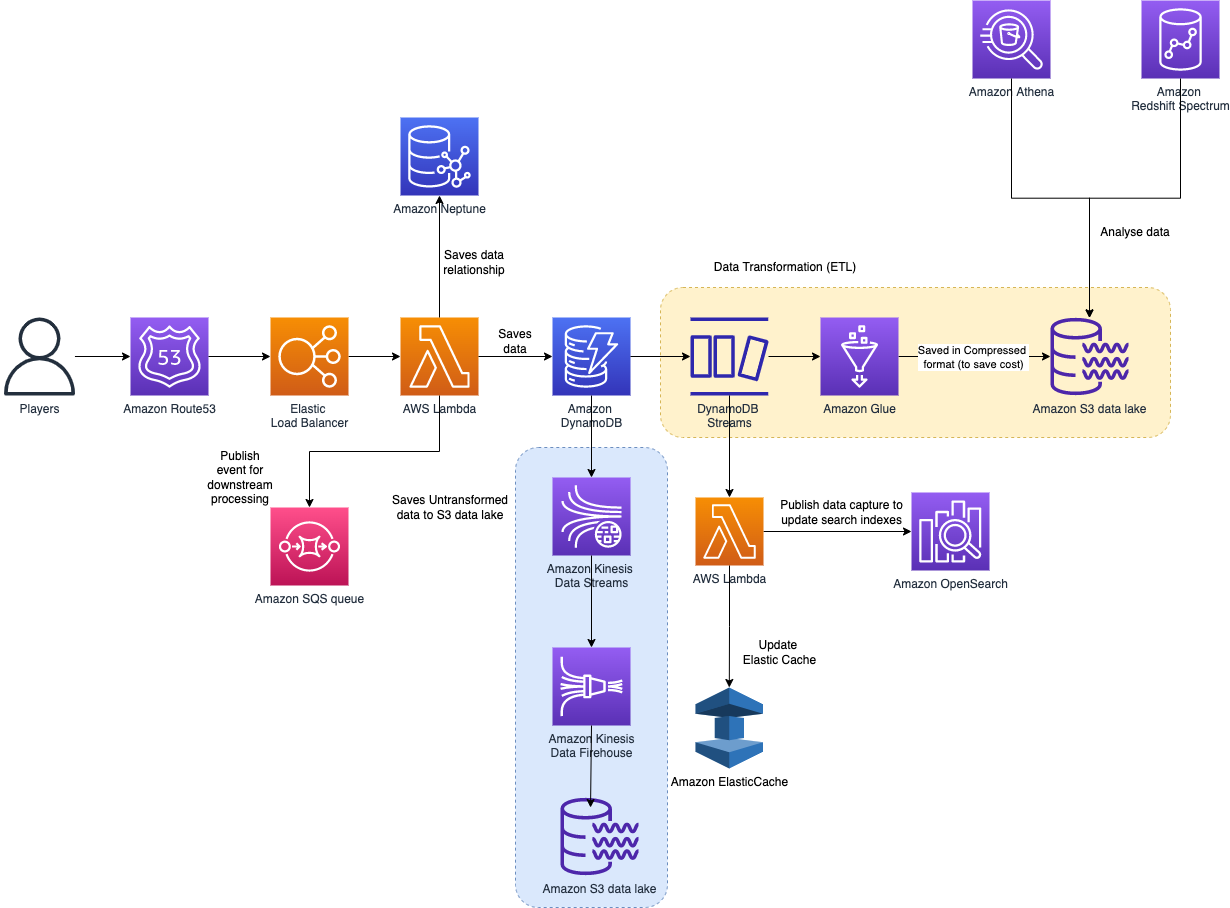
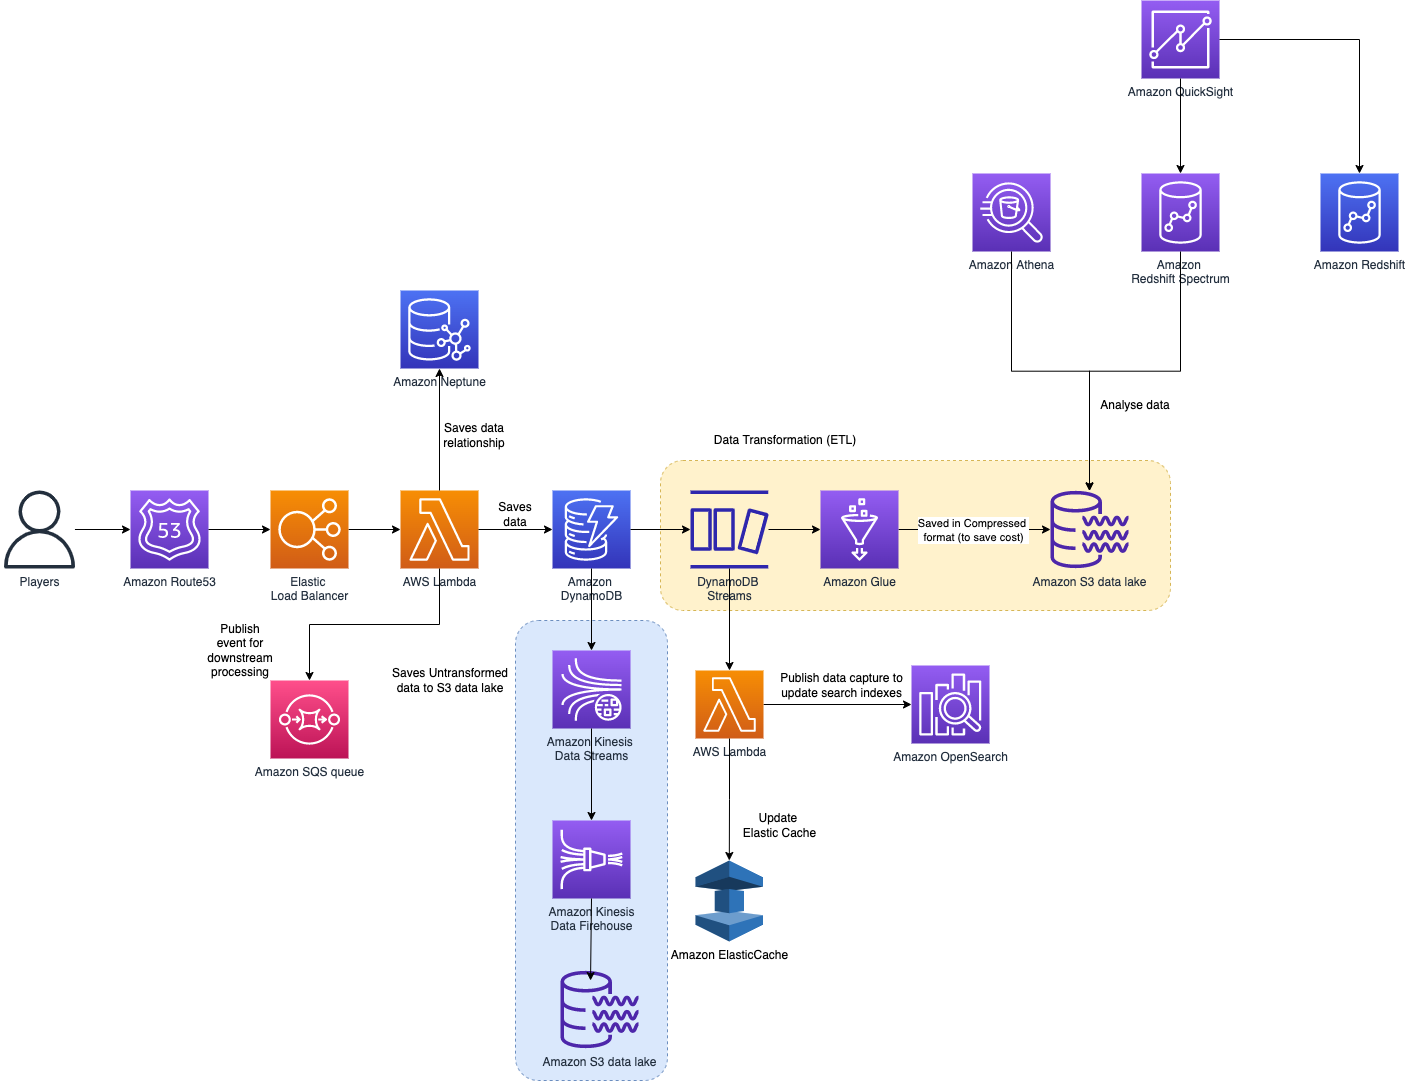
Commit

diff --git a/src/2_AWSComponents/11_AWSCostOptimization/TrustedAdvisor.md b/src/2_AWSComponents/11_AWSCostOptimization/TrustedAdvisor.md
@@ -1,0 +1,24 @@
+# Trusted Advisor
+- [AWS Trusted Advisor](https://aws.amazon.com/premiumsupport/technology/trusted-advisor/) is an online tool that draws upon best practices learned from AWS’s aggregated operational history of serving hundreds of thousands of AWS customers.
+- [Trusted Advisor](https://aws.amazon.com/premiumsupport/technology/trusted-advisor/) inspects your AWS environment and makes recommendations for saving money, improving system performance, or closing security gaps. 
+- It scans your AWS infrastructure and compares it to AWS Best practices in five categories (Cost Optimization, Performance, Security, Fault Tolerance, Service limits) and then provides recommendations.
+
[1 lines of base64/hex data omitted]
+
+# Trusted Advisor Plans
+
+| Price   | Plans                                           | Remarks                                                                                                                                                                   |
+|---------|-------------------------------------------------|---------------------------------------------------------------------------------------------------------------------------------------------------------------------------|
+| Free    | AWS Basic Support and AWS Developer Support     | AWS Basic Support and AWS Developer Support customers can access core security checks and checks for service quotas.                                                      |
+| Premium | AWS Business Support and AWS Enterprise Support | AWS Business Support and AWS Enterprise Support customers can access all checks, including cost optimization, security, fault tolerance, performance, and service quotas. |
+ 
+
+# Features
+
+| Features          |
+|-------------------|
+| Cost Optimization |
+| Performance       |
+| Security          |
+| Fault Tolerance   |
+| Service Limits    |

diff --git a/src/2_AWSComponents/2c_SecurityServices/2_InfraProtectionServices/VPC/SecurityGroupVsNetworkACL.md b/src/2_AWSComponents/2c_SecurityServices/2_InfraProtectionServices/VPC/SecurityGroupVsNetworkACL.md
@@ -1,14 +1,14 @@
 # Security Group vs Network ACL
 
-| Feature          | [Security Group](SecurityGroup.md)                                                                                                                                        | [Network ACL](NetworkACL.md)                                                                                                                                                                                                                                 |
-|------------------|---------------------------------------------------------------------------------------------------------------------------------------------------------------------------|--------------------------------------------------------------------------------------------------------------------------------------------------------------------------------------------------------------------------------------------------------------|
-| Stateliness      | [Stateful](https://en.wiktionary.org/wiki/stateful)<br/>- If an inbound traffic is allowed in, the outbound response to that traffic is allowed out automatically.        | [Stateless](https://en.wiktionary.org/wiki/stateless#English)<br/>- Means that [responses to allowed inbound traffic are subject to the rules for outbound traffic (and vice versa)](https://repost.aws/knowledge-center/resolve-connection-sg-acl-inbound). |
-| Resources        | Operates at Instance Level ([EC2](../../../3_ComputeServices/AmazonEC2/Readme.md), [RDS instances](../../../6_DatabaseServices/AmazonRDS/Readme.md) etc.)                 | Operates at [Subnet level](../../../1_NetworkingAndContentDelivery/3_NetworkFoundationsVPC/Subnets.md)                                                                                                                                                       |
-| Default behavior | By default, [all inbound traffic is denied](https://docs.aws.amazon.com/AWSEC2/latest/UserGuide/default-custom-security-groups.html) and all outbound traffic is allowed. | By default, Network ACLs allow all inbound and outbound traffic.                                                                                                                                                                                             |
-| Rule Types       | ALLOW only (& Implicit Deny)                                                                                                                                              | Both ALLOW and DENY                                                                                                                                                                                                                                          |
-| Traffic Types    | Both Inbound & Outbound.                                                                                                                                                  | Both Inbound & Outbound.                                                                                                                                                                                                                                     |
-| Pricing          | Free                                                                                                                                                                      | Free                                                                                                                                                                                                                                                         |
-| Use Case         | Allow or deny traffic that a NACL allows in.                                                                                                                              | Allow or Deny traffic before it reaches a Security Group.                                                                                                                                                                                                    |
+| Feature          | [Security Group](SecurityGroup.md)                                                                                                                                                                                                                                                                                                 | [Network ACL](NetworkACL.md)                                                                                                                                                                                                                                 |
+|------------------|------------------------------------------------------------------------------------------------------------------------------------------------------------------------------------------------------------------------------------------------------------------------------------------------------------------------------------|--------------------------------------------------------------------------------------------------------------------------------------------------------------------------------------------------------------------------------------------------------------|
+| Stateliness      | [Stateful](https://en.wiktionary.org/wiki/stateful)<br/>- If an inbound traffic is allowed in, the outbound response to that traffic is allowed out automatically.                                                                                                                                                                 | [Stateless](https://en.wiktionary.org/wiki/stateless#English)<br/>- Means that [responses to allowed inbound traffic are subject to the rules for outbound traffic (and vice versa)](https://repost.aws/knowledge-center/resolve-connection-sg-acl-inbound). |
+| Resources        | Operates at Instance Level ([EC2](../../../3_ComputeServices/AmazonEC2/Readme.md), [RDS instances](../../../6_DatabaseServices/AmazonRDS/Readme.md), [ELB](../../../1_NetworkingAndContentDelivery/2_ApplicationNetworking/ElasticLoadBalancer/Readme.md), [EFS](../../../7_StorageServices/2_FileStorageTypes/AmazonEFS.md) etc.) | Operates at [Subnet level](../../../1_NetworkingAndContentDelivery/3_NetworkFoundationsVPC/Subnets.md)                                                                                                                                                       |
+| Default behavior | By default, [all inbound traffic is denied](https://docs.aws.amazon.com/AWSEC2/latest/UserGuide/default-custom-security-groups.html) and all outbound traffic is allowed.                                                                                                                                                          | By default, Network ACLs allow all inbound and outbound traffic.                                                                                                                                                                                             |
+| Rule Types       | ALLOW only (& Implicit Deny)                                                                                                                                                                                                                                                                                                       | Both ALLOW and DENY                                                                                                                                                                                                                                          |
+| Traffic Types    | Both Inbound & Outbound.                                                                                                                                                                                                                                                                                                           | Both Inbound & Outbound.                                                                                                                                                                                                                                     |
+| Pricing          | Free                                                                                                                                                                                                                                                                                                                               | Free                                                                                                                                                                                                                                                         |
+| Use Case         | Allow or deny traffic that a NACL allows in.                                                                                                                                                                                                                                                                                       | Allow or Deny traffic before it reaches a Security Group.                                                                                                                                                                                                    |
 
 # References
 - [Compare security groups and network ACLs](https://docs.aws.amazon.com/vpc/latest/userguide/infrastructure-security.html#VPC_Security_Comparison)

diff --git a/src/2_AWSComponents/AWS-All-Services-List.md b/src/2_AWSComponents/AWS-All-Services-List.md
@@ -63,6 +63,8 @@
 | [AWS Transit Gateway](1_NetworkingAndContentDelivery/3_NetworkFoundationsVPC/ConnectBetweenVPCs/TransitGateway.md)                                     | [Network Foundation](1_NetworkingAndContentDelivery/3_NetworkFoundationsVPC/Readme.md)     | :white_check_mark:                               | :earth_americas: Regional                                                                                                                       | It is a service to manage and simplify connections and peering for your Amazon VPCs. Allow one-to-many connections.                                                                                                                                                                                       |
 | [AWS VPC Internet Gateway](1_NetworkingAndContentDelivery/3_NetworkFoundationsVPC/InternetGateway.md)                                                  | [Network Foundation](1_NetworkingAndContentDelivery/3_NetworkFoundationsVPC/Readme.md)     | :white_check_mark:                               | :earth_americas: VPC Specific                                                                                                                   | -                                                                                                                                                                                                                                                                                                         |
 | [AWS VPC NAT Gateway](1_NetworkingAndContentDelivery/3_NetworkFoundationsVPC/ConnectFromVPC/NATDevices/NATGateway.md)                                  | [Network Foundation](1_NetworkingAndContentDelivery/3_NetworkFoundationsVPC/Readme.md)     | :white_check_mark:                               | :earth_americas: VPC Specific                                                                                                                   | -                                                                                                                                                                                                                                                                                                         |
+| [AWS VPC NAT Instance](1_NetworkingAndContentDelivery/3_NetworkFoundationsVPC/ConnectFromVPC/NATDevices/NATGatewayVsNATInstances.md)                   | [Network Foundation](1_NetworkingAndContentDelivery/3_NetworkFoundationsVPC/Readme.md)     | :x:                                              | :earth_americas: VPC Specific                                                                                                                   | -                                                                                                                                                                                                                                                                                                         |
 | :star: [Amazon GuardDuty](8_MonitoringServices/SecurityMonitoringServices/AmazonGuardDuty.md)                                                          | [Security Service](2c_SecurityServices)                                                    | :white_check_mark:                               | :globe_with_meridians: Global                                                                                                                   | Monitors any malicious activity on AWS Accounts (i.e. data stored in S3).                                                                                                                                                                                                                                 |
 | [Amazon Macie](8_MonitoringServices/SecurityMonitoringServices/AmazonMacie.md)                                                                         | [Security Service](2c_SecurityServices)                                                    | :white_check_mark:                               | :globe_with_meridians: Global                                                                                                                   | Monitors any sensitive data and usage (i.e. identify sensitive data stored in S3)                                                                                                                                                                                                                         |
 | [Amazon Inspector](8_MonitoringServices/SecurityMonitoringServices/AmazonInspector.md)                                                                 | [Security Service](2c_SecurityServices)                                                    | :white_check_mark:                               | :globe_with_meridians: Global                                                                                                                   | Identify any security vulnerability in AWS resources like EC2 instances                                                                                                                                                                                                                                   |
+| :star: [AWS Trusted Advisor](11_AWSCostOptimization/TrustedAdvisor.md)                                                                                 | [Monitoring Service](8_MonitoringServices)                                                 | :white_check_mark:                               | :globe_with_meridians: Global                                                                                                                   | An online tool that draws upon best practices learned from AWS’s aggregated operational history of serving hundreds of thousands of AWS customers.                                                                                                                                                        |

diff --git a/src/2_AWSComponents/10_BigDataComponents/DataWarehouse/AmazonRedshift.md b/src/2_AWSComponents/10_BigDataComponents/DataWarehouse/AmazonRedshift.md
@@ -4,8 +4,12 @@
 
 ![](https://lucyinthecloud.com/app/uploads/2021/07/amazon-redshift.png)
 
-# Amazon Redshift & PostgresQL
-- [Amazon Redshift]() and [PostgreSQL](../../../1_HLDDesignComponents/3_DatabaseComponents/Readme.md) have a number of important differences that you must be aware of as you design and develop your data warehouse applications.
+# Features
+
+| Feature                      | Remarks                                                                                                                                                                                                                                                          |
+|------------------------------|------------------------------------------------------------------------------------------------------------------------------------------------------------------------------------------------------------------------------------------------------------------|
+| Amazon Redshift & PostgresQL | [Amazon Redshift]() and [PostgreSQL](../../../1_HLDDesignComponents/3_DatabaseComponents/Readme.md) have a number of important differences that you must be aware of as you design and develop your data warehouse applications.                                 |
+| Redshift Spectrum            | [Amazon Redshift Spectrum](AmazonRedshiftSpectrum.md) can be used to perform in-place querying of data assets in an [Amazon S3-based data lake](../../7_StorageServices/3_ObjectStorageS3/Readme.md). |
 
 # General Use Cases
 

diff --git a/src/2_AWSComponents/AWS-Well-Architected-Framework.md b/src/2_AWSComponents/AWS-Well-Architected-Framework.md
@@ -32,7 +32,7 @@ Lenses provide additional guidance tailored to specific industry and technology 
 
 | Principal                                               | AWS Service                                                                            |
 |---------------------------------------------------------|----------------------------------------------------------------------------------------|
-| Design Operation Priorities                             | [AWS Trust Advisor](13_OtherServices/TrustedAdvisor.md)                                |
+| Design Operation Priorities                             | [AWS Trust Advisor](11_AWSCostOptimization/TrustedAdvisor.md)                                |
 | Design for Operations                                   | [AWS Cloudformation](9_InfrastructureAsCode/AWSCloudFormation/Readme.md)               |
 | Operational Readiness                                   | [AWS System Manager](2c_SecurityServices/1_DataProtectionServices/AWSSystemManager.md) |
 | Operational Health                                      | [AWS CloudWatch](8_MonitoringServices/AmazonCloudWatch/Readme.md)                      |

diff --git a/src/2_AWSComponents/10_BigDataComponents/DataWarehouse/AmazonRedshiftSpectrum.md b/src/2_AWSComponents/10_BigDataComponents/DataWarehouse/AmazonRedshiftSpectrum.md
@@ -1,4 +1,11 @@
 # Amazon Redshift Spectrum
 - [Amazon Redshift Spectrum](https://docs.aws.amazon.com/redshift/latest/dg/c-getting-started-using-spectrum.html) can be used to perform in-place querying of data assets in an [Amazon S3-based data lake](../../7_StorageServices/3_ObjectStorageS3/Readme.md).
+- Amazon Redshift Spectrum resides on dedicated Amazon Redshift servers that are independent of your cluster. 
+- Redshift Spectrum pushes many compute-intensive tasks, such as predicate filtering and aggregation, down to the Redshift Spectrum layer. 
+- Thus, Redshift Spectrum queries use much less of your cluster's processing capacity than other queries.
 
 ![](https://d2908q01vomqb2.cloudfront.net/b6692ea5df920cad691c20319a6fffd7a4a766b8/2017/07/18/redshift_spectrum-1.gif)
+
+# Use Cases
+
+![](../../0_AWSDesigns/IOTDataCapture/assets/AWS-IOT-Data-Capture.png)

diff --git a/src/2_AWSComponents/2c_SecurityServices/2_InfraProtectionServices/VPC/SecurityGroup.md b/src/2_AWSComponents/2c_SecurityServices/2_InfraProtectionServices/VPC/SecurityGroup.md
@@ -9,6 +9,7 @@
 | [Amazon RDS Instance](../../../6_DatabaseServices/AmazonRDS/Readme.md)                                                 |
 | [Elastic Load Balancer](../../../1_NetworkingAndContentDelivery/2_ApplicationNetworking/ElasticLoadBalancer/Readme.md) |
 | [Elastic File System](../../../7_StorageServices/2_FileStorageTypes/AmazonEFS.md)                                      |
+| [NAT Instance](../../../)                                                                                              |
 
 # Source/Destination 
 - The [source (inbound rules) or destination (outbound rules)](https://docs.aws.amazon.com/AWSEC2/latest/UserGuide/security-group-rules.html) for the traffic to allow.

diff --git a/src/2_AWSComponents/7_StorageServices/3_ObjectStorageS3/ObjectLock.md b/src/2_AWSComponents/7_StorageServices/3_ObjectStorageS3/ObjectLock.md
@@ -1,4 +1,7 @@
 # Object Lock
 - With [S3 Object Lock](https://docs.aws.amazon.com/AmazonS3/latest/userguide/object-lock.html), you can store objects using a [write-once-read-many (WORM) model](../../../1_HLDDesignComponents/0_SystemGlossaries/Database/AppendOnlyDataStructure.md).
 - Object Lock can help prevent objects from being deleted or overwritten for a fixed amount of time or indefinitely.
-- Object Lock provides two ways to manage object retention: retention periods and legal holds.
+
+Object Lock provides two ways to manage object retention: 
+- Retention periods
+- Legal holds.

diff --git a/src/2_AWSComponents/1_NetworkingAndContentDelivery/1_EdgeNetworking/AmazonRoute53/Readme.md b/src/2_AWSComponents/1_NetworkingAndContentDelivery/1_EdgeNetworking/AmazonRoute53/Readme.md
@@ -63,3 +63,4 @@ Read more
 - [A Case Study in Global Fault Isolation](https://aws.amazon.com/blogs/architecture/a-case-study-in-global-fault-isolation/) 
 - [Amazon Route 53 : Private Hosted Zone](https://www.bogotobogo.com/DevOps/AWS/aws-Route53-DNS-Private-Hosted-Zone.php)
 - [Routing traffic to an Amazon CloudFront distribution by using your domain name](https://docs.aws.amazon.com/Route53/latest/DeveloperGuide/routing-to-cloudfront-distribution.html)
+- [Geoproximity vs Geolocation](https://www.abstractapi.com/guides/geoproximity-vs-geolocation)
